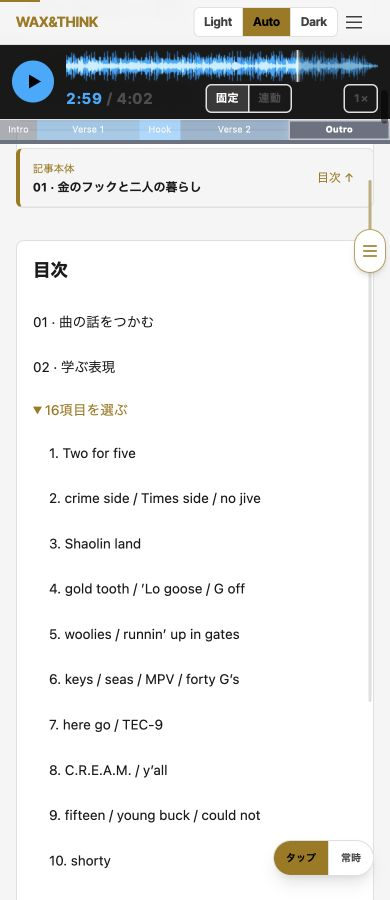
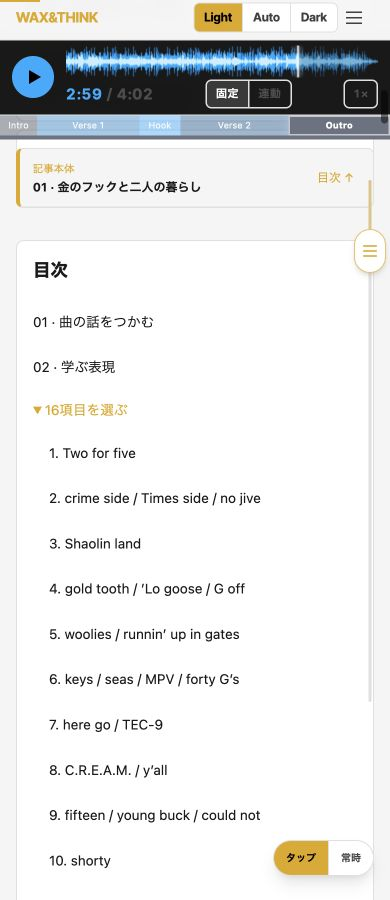
docs(cream): record live review verification

diff --git a/AI_COLLABORATION.md b/AI_COLLABORATION.md
@@ -253,3 +253,8 @@ AIを活用し、WAX&THINKの検索・動画流入を継続収益へ変える。
 ### C.R.E.A.M. 読者レビュー本文修正・ローカル検証終了 — 2026-10-11 JST
 - Codex。lo gooseは34.9秒の明示返信で確定。Shaolinを独立して先に置き、金歯/Lo/G off、keys/MPV、fifteen/young、world/life、escape/bones、worth/Old Earth、proof/truth/youthを同じ一節へ統合。自然な区切りは16ブロック・15seek（着手時15案から修正）。元24語の記録は残し、ユーザー実測11のみ上書き、他13の時刻・原文を保全。
 - 三稿・文体・記事10項目/build・Genius実在/重複0・引用37%・公開安全・専用保全ガード・diff pass。引用eng207→198語、jpn538→525字。PC1440/390/320横溢れ0・画像6表示ロード、320px全16目次往復/15時刻表示確認。ローカルのYouTube実再生は判定せず、次はreview push後の実再生/停止確認。main/常設main-review WIP・他記事・動画・共通部品・publisherを保全。intro非収録の耳確認、GA4受信/成約、Amazon画像個別許諾は前回未確認のまま。証拠cream-reader-feedback JSON/cream-feedback-qa。
+
+### C.R.E.A.M. 読者レビュー修正終了・review実機確認 — 2026-10-11 JST
+- Codex。対象11ファイルを719be82でreviewへpush、通常フック合格・Vercel success。認証済み実reviewに16ブロック/15seek/ユーザー実測の反映を確認。390px全15再生→停止合格、PC1440/320のフックも再生停止合格、時刻進行と停止後固定を確認。320px全16目次往復、PC1440/390/320横溢れ0・記事画像5点load、ジャケット左/データ右を確認。目次画像3幅とbrowser JSONを保存。検証記録のみ追補commitして終了。
+- 完了: 今回指定の曲順・統合・fifteen/shorty文脈・実測11反映、文体/記事/引用/公開安全/専用/diff/UI。未完了: 本番公開（承認待ち）。旧導入の非収録の耳確認、GA4受信/成約、Amazon画像個別許諾は前回保留を継承。main74a1863、他記事/共通player/規定publisher/常設WIP/動画は変更0。
+- 次1タスク: CREAM最終レビューと公開可否の確定。理由: まとまりと実測反映をユーザーが確認した版だけを既定publish-mainへ渡すため。難度:中。推奨GPT-6.1 Sol/high。操作: reviewのcreamを再読み込みし、曲順/統合/前後文を確認して「CREAM公開」または修正箇所を返信。必要入力: 本番公開承認、旧導入の非収録の聴取結果（未確認のため引継ぎ）。次の記事へ進まない。
